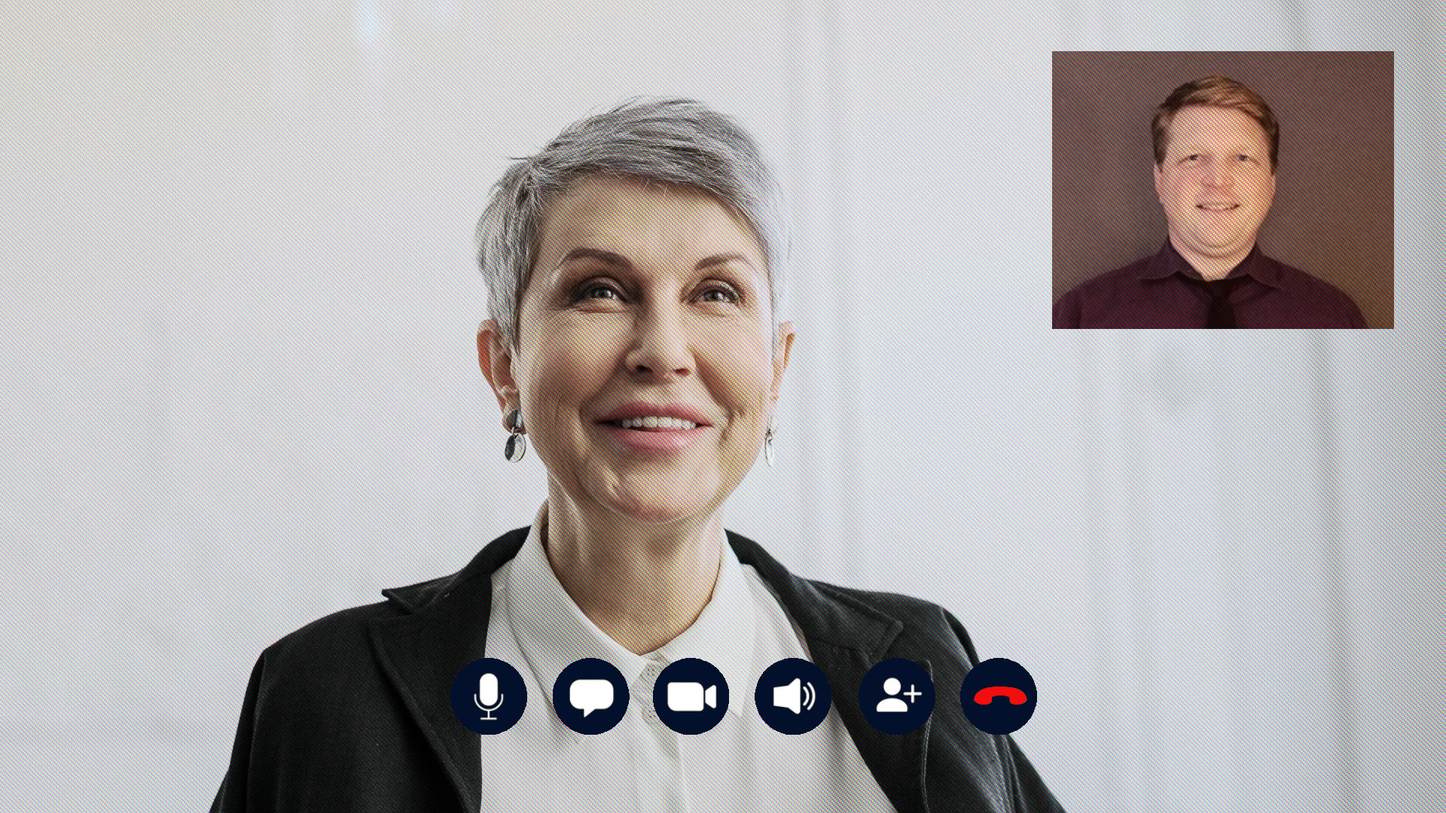
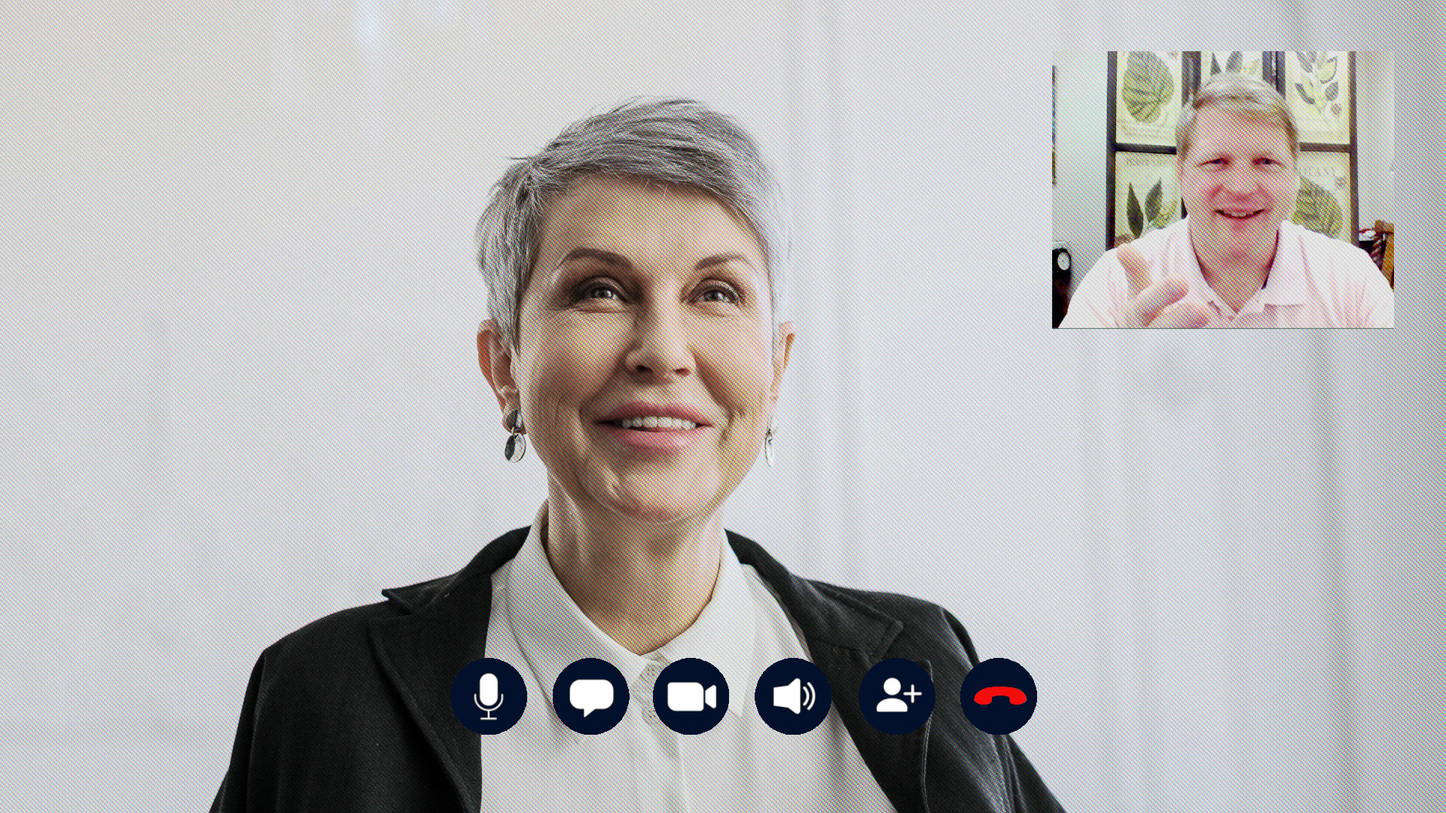
Squared Telehealth Section more neatly.

Changed region(s): [[0.7188, 0.0611, 0.9688, 0.4278]]

diff --git a/styles.css b/styles.css
@@ -76,6 +76,11 @@ p {
   margin-bottom: 8px;
 }
 
+#Home a{
+  text-decoration: inherit;
+  color: inherit;
+}
+
 #About {
   padding: 5% 5% 2% 5%;
   background-color: #f2faf6;
@@ -106,13 +111,8 @@ p {
   padding-top: 35px;
 }
 
-#Telehealth img{
-  width: 400px;
-  margin: 20% auto;
-}
-
-#Telehealth .column{
-
+#Telehealth p{
+  margin: 10% auto;
 }
 
 #Insurance h4 {
@@ -222,21 +222,37 @@ p {
   align-self: center;
 }
 
+.tframe{
+  width: 75%;
+  vertical-align: middle;
+  margin-top: -10%;
+  margin-bottom: -10%;
+
+  /*text-align: center;
+  display: table-cell;*/
+}
+
+.tframe img{
+  max-width: 100%;
+  max-height: 100%;
+  display:block;
+  margin: 20%;
+}
+
 .tour-video {
   /*  padding: 2% 0 0 0; */
 }
 
 .tele-text {
   padding: 50px 100px;
-  align-items: center;
+  margin-top: 5%;
+  margin-bottom: 5%;
 }
 
 .insurance-text {
   padding: 50px 100px;
   align-items: center;
 }
-
-.tele-picture {}
 
 .textbox {
   background-color: #EBEBEB;

diff --git a/index.html b/index.html
@@ -224,7 +224,10 @@
       </div>
       <div class="col-12 col-lg-6">
           <div class = "column">
-            <img src="images/Telehealth.jpg" alt="Telehealth Screen">
+            <div class = "tframe">
+              <img src="images/Telehealth.jpg" alt="Telehealth Screen">
+            </div>
+
           </div>
       </div>
     </div>
